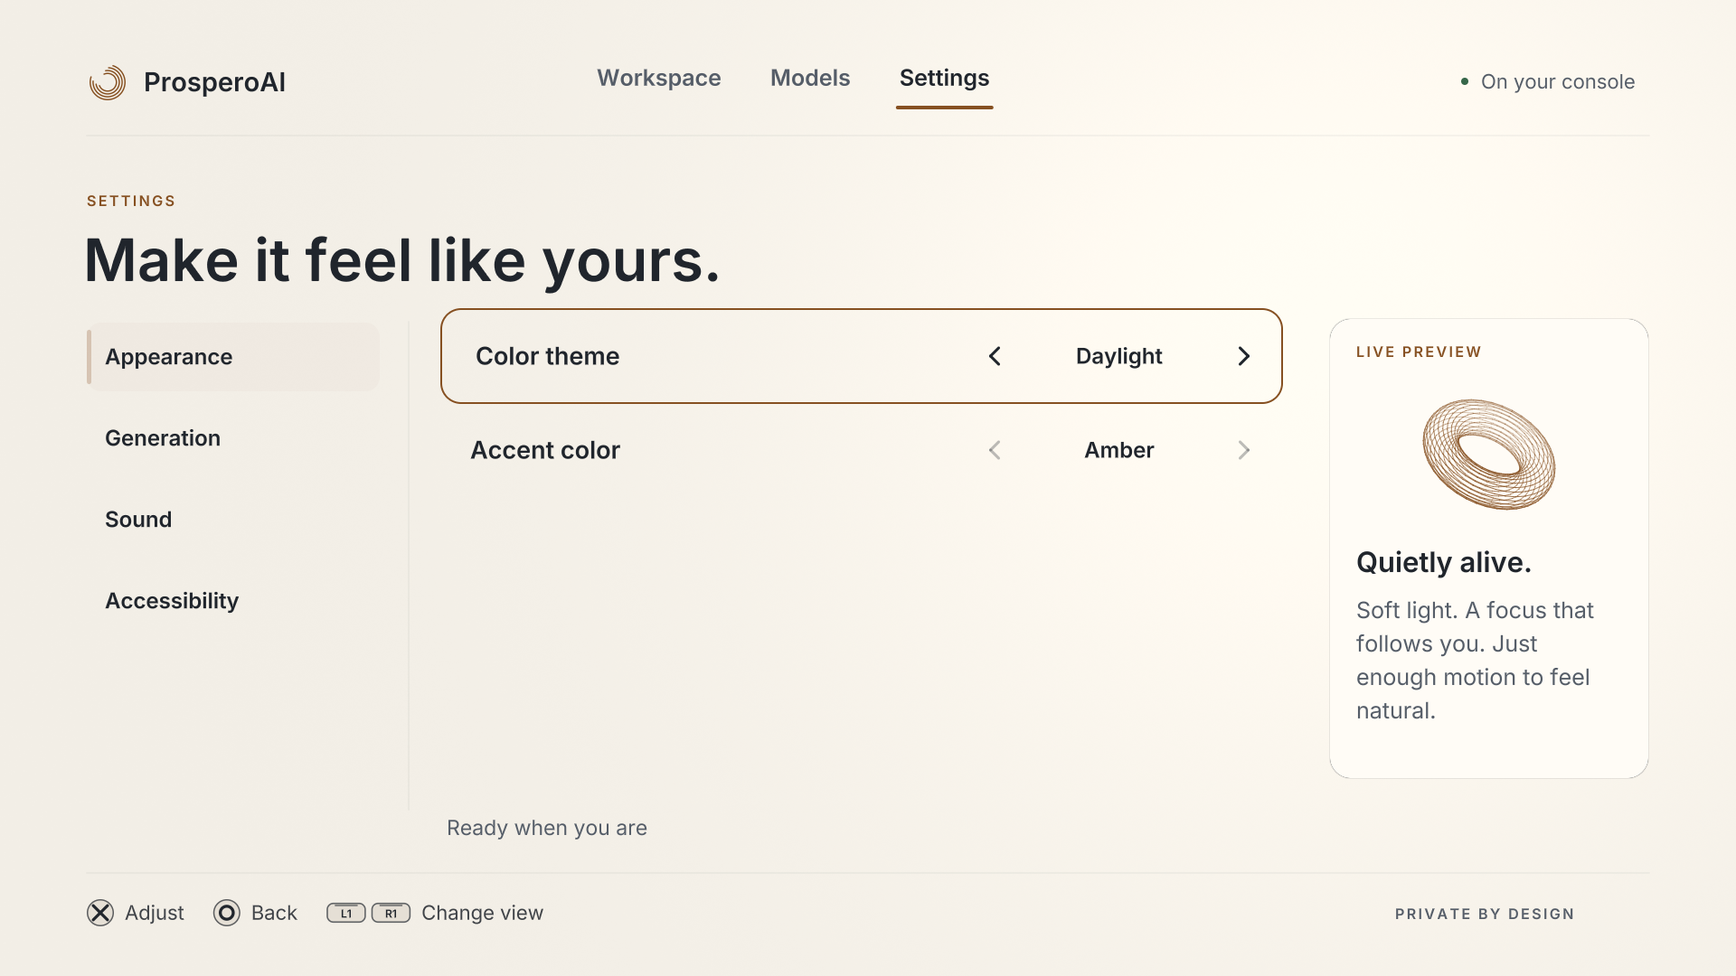
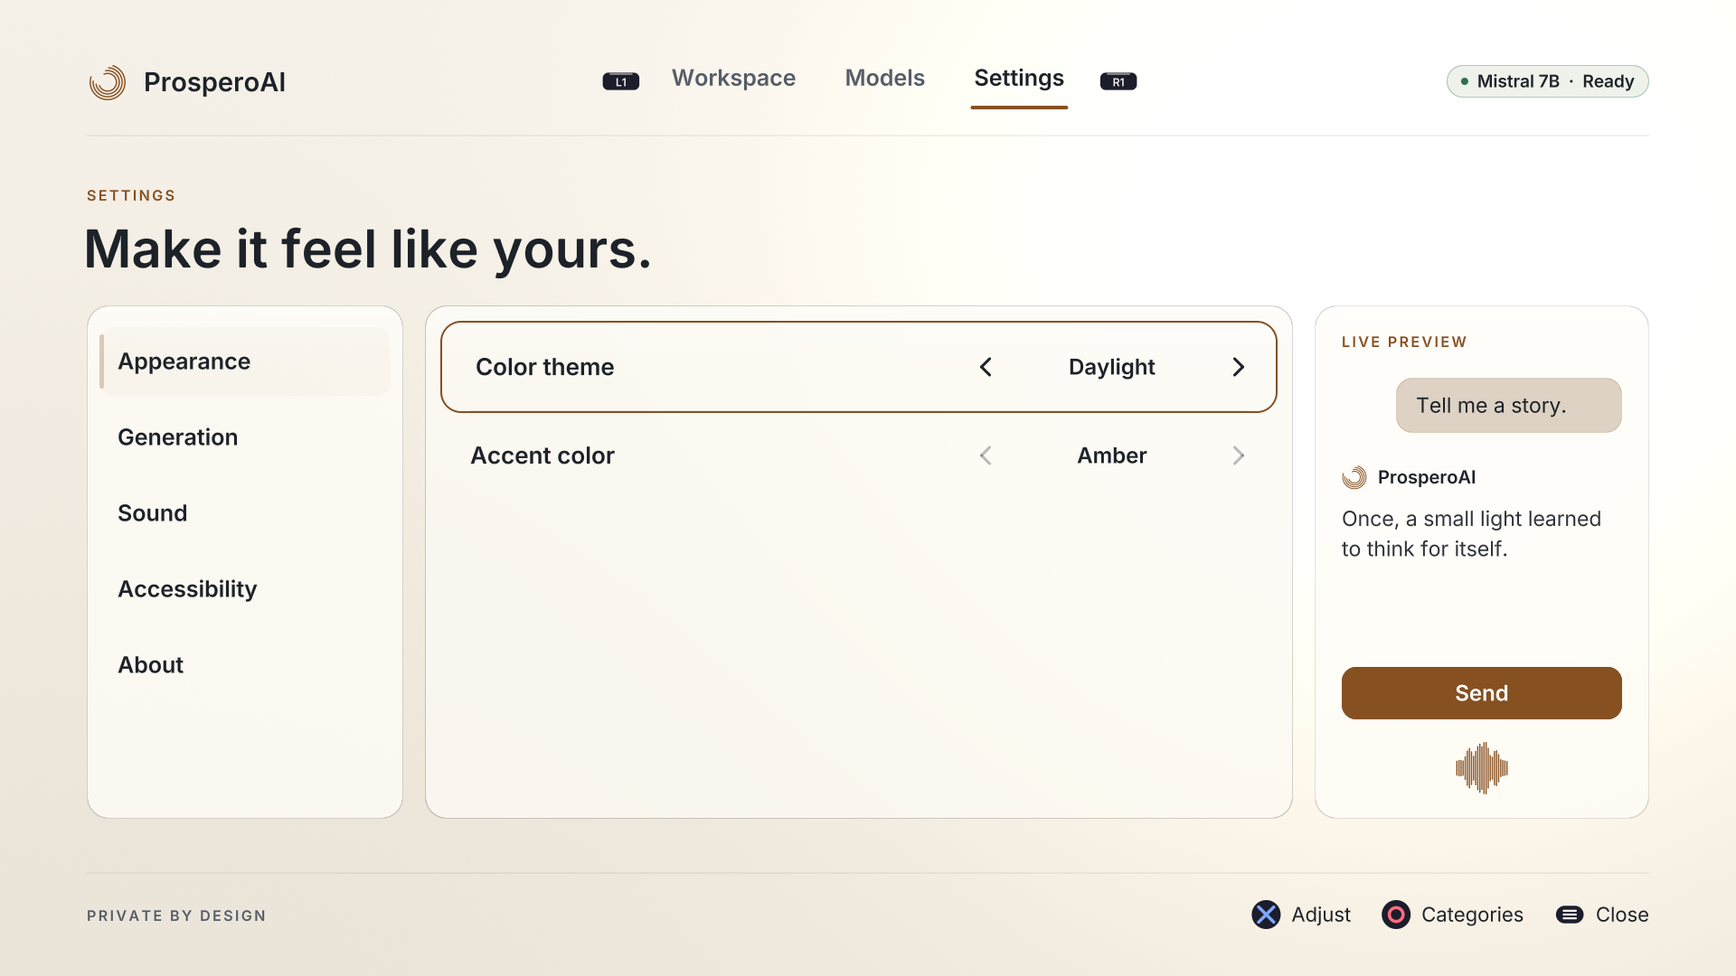
Describe the reworked interface and replace its pictures

diff --git a/docs/NATIVE_UI.md b/docs/NATIVE_UI.md
@@ -1,137 +1,154 @@
 # Native UI
 
-ProsperoAI uses the `ps5-homebrew-ui` renderer and components at revision
-`4bd942579dd981b3df9c740438489ca6a614ddc0`. The approved Midnight / Amber design
-is implemented in `src/native_ui.cpp`. The console entry point is `src/main.cpp`.
-The old RmlUi document renderer and bitmap-font engine are removed from the build.
-SDL remains for the existing media decoder, input clock, and system-keyboard helpers.
+ProsperoAI's interface is drawn with OpenGL through
+[ps5-homebrew-ui](https://github.com/blackbearreloaded/ps5-homebrew-ui), fetched at a
+pinned commit when the app is built ([ui-kit/README.md](../ui-kit/README.md)). The old
+RmlUi document renderer, its bitmap-font engine and FreeType are gone from the
+repository. SDL remains for the media decoder, the input clock and the system-keyboard
+helpers.
 
-These are captures of the production frontend with deterministic host fixtures,
-not console captures or model-inference results:
+These pictures are the production frontend drawn on a PC with stand-in models and
+storage. They are not console captures and show no real model output.
 
+![Opening page](images/native-welcome.png)
 ![Model library](images/native-models.png)
 ![Conversation workspace](images/native-workspace.png)
 ![Daylight settings](images/native-daylight.png)
 
-## Screens and input
+## Pages and controls
 
-- **Workspace:** saved conversations, streamed text, image previews, and saved audio.
-  Cross writes a message or sends the current USB-keyboard draft. The system keyboard's
-  Send action submits its text; Cancel returns to the app. Square starts a conversation.
-  Left focuses the session rail; Right or Circle returns to the composer. Up/Down and
-  the existing scroll inputs move through the response. Triangle retries a failed job
-  or plays the latest saved audio. A focused session can be deleted with Triangle,
-  after a confirmation dialog.
-- **Models:** a scrolling, virtualized model grid. Square opens search; a USB keyboard
-  can also type a query directly. Triangle cycles capability filters. Cross confirms a
-  model change. The selected model and installed model IDs come from the runtime.
-- **Settings:** appearance, text-generation defaults, interface volume, reduced motion,
-  high contrast, and larger reading text. Circle focuses the categories; Up/Down changes
-  category, and Cross/Right enters its controls. Changes apply immediately and save in
-  the background.
-- L1/R1 change screens. Options opens the close dialog when background work has finished
-  and the conversation has been saved.
+L1 and R1 change page. Options asks to close the app once nothing is running and the
+conversation is saved. The row at the bottom right always names what the buttons do on
+the page, and a dialog shows its own.
 
-The frontend uses the framework's spring focus, scrolling, card lift, staggered arrivals,
-tab indicator, native dialog transitions, blur, and sound cues. Screen entrances fade
-and rise over 420 ms. Procedural artwork uses the native draw list. Reduced motion
-disables ambient movement and snaps component motion according to the kit's policy.
-Both Midnight and Daylight apply to the entire interface, with Amber, Mist, and Sage accents.
+| Page | What it does |
+| --- | --- |
+| **Workspace** | Opens on a welcome page that says what is installed. Cross starts a conversation: with an empty prompt it opens the system keyboard (whose Done sends), with a typed one it sends. Square starts a new conversation. Left moves to the conversation list, where Cross opens one and Triangle deletes it after a confirmation. Triangle retries a failed answer or plays the latest saved audio. The right stick or Up and Down scroll. |
+| **Models** | The model under the focus leads the page; the grid below scrolls over any number of models. Square searches (a USB keyboard types straight into the search), Triangle steps through the kinds, Cross chooses a model after a confirmation. |
+| **Settings** | Appearance (Midnight or Daylight, three accents), Generation, Sound, Accessibility (reduced motion, high contrast, reading size) and About (version and credits). Circle returns to the categories. Changes apply at once and are saved in the background. |
+
+## What the player sees and hears
+
+- **An opening.** The console's splash stays up until the first frame; then the mark draws
+  itself in while the model catalogue is read, and the page arrives underneath.
+- **A backdrop that follows the app.** A slow cloud shader behind every page takes the
+  accent colour and the colour of the model in focus (conversation, image, sound and voice
+  each have one). Panels are tinted glass over it; dialogs blur what is behind them.
+- **State that is always visible.** A chip in the header names the active model and what it
+  is doing (Ready, Preparing, Creating). The model being prepared shows it on its card.
+- **Answers that arrive.** A new message fades in; while the model thinks its row shows
+  three dots, then the text with a caret; the line above the prompt counts the seconds.
+  When a text answer is done the same line shows tokens, tokens per second and context
+  size, as the first interface did; for media it shows the time taken.
+- **Notices.** Things that finish out of sight (a model that became ready, an answer that
+  completed while another page was open, a failure, a conversation deleted) arrive as a
+  notice in the top right corner and leave by themselves.
+- **Sound.** Every move, confirmation, refusal, page change, switch and dialog has a cue
+  from the kit's "glass" set, placed in the stereo field by where it happened. The app adds
+  a chime when it opens, one when a text answer is ready, a longer one for an image or a
+  sound, and a typing tick for the USB keyboard. The Sound setting scales all of them.
+- **Reduced motion** stops the backdrop, the idle movement and the entrances; the host
+  check below proves a page at rest then never changes. **High contrast** closes the
+  panels, removes the backdrop's clouds and strengthens lines and secondary text.
+
+Controller rumble is not used: the app's controller layer has no rumble call yet.
 
 ## State and model scalability
 
-`native_app.cpp` owns the application state. One worker serializes model discovery,
-model selection/preparation, inference, media decoding, session persistence, and settings
-writes. The renderer does not access the runtime or filesystem. Worker results are
-published with release/acquire synchronization and consumed on the rendering thread.
-Streaming updates are coalesced and copied without blocking the render thread.
+`native_app.cpp` owns the application state. One worker serializes model discovery, model
+selection and preparation, inference, media decoding, session persistence and settings
+writes. The renderer does not touch the runtime or the filesystem. Worker results are
+published with release/acquire synchronization and consumed on the rendering thread;
+streamed text is coalesced and copied without blocking either side. Each finished job can
+leave one notice (`App::take_notices`), which the interface turns into a sound or a toast.
 
-Model discovery reads every directory batch and stores descriptors in a vector; the
-former eight-model limit is removed. The grid draws visible cards, and search/filter
-operate on descriptors rather than hard-coded model names or positions. Saved preferences
-and conversations reference stable model IDs. The legacy numeric preference file is
-read and migrated to the version-2 key/value format on the next save.
+Model discovery reads every directory batch into a vector; there is no eight-model limit.
+The grid draws visible cards only, and search and filters work on descriptors, not on
+hard-coded names or positions. Saved preferences and conversations refer to stable model
+IDs. The legacy numeric preference file is read and migrated on the next save.
 
-Text, image, audio, and speech capabilities map to the existing runtime adapters. Adding
-a compatible installed model does not require a frontend change. Adding a new model
-architecture still requires a runtime adapter; a matching filename alone does not make
-an unsupported architecture usable. One model job runs at a time. No unmeasured RAM or
-VRAM estimates are shown, and selecting a media model is not represented as fully loading
-its weights before the runtime does so.
+Text, image, audio and speech map to the existing runtime adapters. A compatible installed
+model needs no frontend change; a new architecture still needs a runtime adapter. One
+model job runs at a time. No unmeasured memory estimates are shown.
 
-Conversations restore their recorded model. A missing model leaves a conversation readable.
-Generation failure preserves the user's message for retry. Failed saves retain the in-memory
-conversation and prevent model/session changes; retrying an unsaved response saves it
-without generating a duplicate. Conversation storage keeps its existing 64-message ceiling,
-reserving a slot for the assistant response. The session rail shows the storage layer's
-64 most recently updated sessions. Older sessions are retained on disk. Message storage
-now accommodates the runtime's complete 4095-byte response buffer.
+Conversations restore their recorded model; a missing model leaves the conversation
+readable. A failed generation keeps the message for a retry, and sending something else
+instead replaces that unanswered message (two user turns in a row would break some chat
+templates). A failed save keeps the conversation in memory and blocks model and session
+changes until a retry saves it, without generating again. A conversation holds 64
+messages and the list shows the 64 most recent ones; older ones stay on disk.
+
+## Text in any language
+
+The four faces of the interface (Inter Regular and SemiBold, Montserrat Medium, DejaVu
+Sans Mono) are baked at build time by the kit's own baker with its European alphabet, so
+accented Latin, Greek and Cyrillic are drawn in the same face as the sentence around them.
+Three more faces stand behind them as fallbacks (`src/font_set.cpp`) and are read from
+disk only when a text first needs them:
+
+| Face | Covers | Source |
+| --- | --- | --- |
+| `noto-sans-east-asian` | Chinese and Japanese: GB 2312, Big5, JIS X 0208, kana, full-width forms | Noto Sans SC, fetched and baked at build time |
+| `noto-sans-korean` | Hangul and compatibility jamo | Noto Sans KR, the same way |
+| `legacy-multilingual` | What the first interface's bitmap font has that the others do not: Arabic, Hebrew, Thai, Devanagari and other glyphs, drawn unshaped | `assets/fonts/legacy-multilingual` |
+
+The first two are large (26 MB and 16 MB), which is why they are loaded on demand; the
+frame that reads one is a long one (about 70 ms on a PC, not measured on a console).
+There is no shaping engine: Arabic and Indic text is drawn as isolated glyphs from left to
+right, exactly as before. Long text without spaces wraps between code points.
 
 ## Graphics and media integration
 
-OpenGL is initialized before inference. `agc_lifecycle.cpp` makes the process-wide AGC
+OpenGL starts before inference. `agc_lifecycle.cpp` makes the process-wide AGC
 initialization shared between the two clients. Link-only AGC import declarations combine
-the graphics SDK's exports with the inference wait-command declaration. These stubs are
-not included in the app package.
+the graphics SDK's exports with the inference wait-command declaration; these stubs are
+not packaged. The application allocator implements `realloc` and `malloc_usable_size` for
+its fallback allocations, so Mesa never passes a mapped allocation to the libc heap.
+`src/runtime_shims.c` carries the libc entry points Mesa needs and the delayed splash
+release. The title exits through the system service after releasing its resources.
 
-The existing application allocator now implements `realloc` and `malloc_usable_size` for
-its fallback allocations, so Mesa does not pass a mapped allocation to the libc heap.
-The framework's libc shims and delayed splash release are included. The title exits through
-the system service after UI/audio resources have been released.
+Generated images decode off the rendering thread. TGA headers, dimensions and payloads are
+checked; previews are downsampled to at most 1024 pixels on their longest side. Textures
+upload for visible images, at most one per frame, and are released when the conversation
+changes. Saved audio uses the existing player; interface cues use the kit's mixer.
 
-Generated images decode off the rendering thread. TGA headers, dimensions, and payloads
-are checked; previews are downsampled to at most 1024 pixels on their longest side. Texture
-uploads happen for visible images, at most one per update. Textures are released when the
-conversation changes. Saved audio uses the existing player, while interface cues use the
-framework mixer and their own volume setting.
-
-The bundled multilingual bitmap atlas is converted at build time to a coverage `.huifont`.
-The four display fonts share this fallback atlas, preserving 17,854 fallback glyphs.
-Measurement, wrapping, and rendering use the same resolved face and metrics. Long strings
-without spaces wrap at UTF-8 codepoint boundaries. This preserves the existing glyph
-coverage; it does not introduce bidirectional layout or complex-script shaping.
+A diagnostic log is off by default. A file named `dev/log.txt` in the install folder turns
+it on; it is written to `/download0/ProsperoAI/logs/app.log`.
 
 ## Build and verification
-
-The normal Linux/WSL build remains:
 
 ```sh
 BUILD_JOBS=6 make app
 ```
 
-This fetches and verifies the framework's pinned OpenGL SDK, converts the fallback font,
-builds the native frontend and existing inference adapters, and assembles the app folder.
-The package includes the new fonts and sound cues; obsolete RmlUi assets are not packaged.
+fetches and verifies the OpenGL SDK and the kit, bakes the fonts, builds the frontend and
+the inference adapters, and assembles the app folder with the fonts and sounds it needs.
 Model weights are not included.
 
-Host checks and production-frontend captures:
+Host checks and pictures of the production frontend:
 
 ```sh
 python3 -m unittest discover -s tests -p 'test_native_controller.py' -v
 python3 tools/host-ui-preview.py
 PROSPERO_STRESS=1 python3 tools/host-ui-preview.py build/ui-preview/stress
+PROSPERO_EMPTY=1 python3 tools/host-ui-preview.py build/ui-preview/empty
 python3 tools/host-ui-preview.py build/ui-preview/reel --reel
 ```
 
-The preview requires Clang, Mesa EGL/OpenGL, Python/Pillow, and FFmpeg for a reel. It compiles
-the production controller and frontend with deterministic runtime and storage fixtures.
-It does not run model inference, connect to a console, or deploy anything. Its images and
-reels are host captures, not evidence of console boot or console frame rate.
+The preview needs Clang, Mesa EGL/OpenGL, Python with Pillow, and FFmpeg for a reel. It
+compiles the production controller and frontend against stand-in runtime and storage, and
+walks every page, dialog and state. It runs no inference and touches no console.
 
-The checks cover 500 model descriptors, real discovery across multiple directory batches,
+The checks cover 500 model descriptors, discovery across several directory batches,
 serialized runtime ownership, switching, session restore, missing models, persistence,
-generation retry, save retry, multilingual layout, bounded image decoding, fallback
-allocator resizing, and concurrent AGC initialization.
-The host renderer also verifies that reduced-motion library frames remain identical
-after two seconds at rest. The 500-model catalog uses 22 draw calls normally and 49
-with the blurred dialog in the captured host run; these are not console frame-rate results.
+generation retry, save retry, the replaced unanswered message, notices, fallback faces
+and their metrics, wrapping at spaces and between code points, bounded image decoding,
+allocator resizing and concurrent AGC initialization. The preview reports no OpenGL error
+on any page and that a reduced-motion page at rest is identical two seconds later.
 
-## Upstream changes
+## Not verified on a console
 
-The vendored component/renderer subset includes upstream license notices. Local changes
-add a fallback face to `gfx::Font`, coverage-atlas rendering, per-glyph texture selection,
-and codepoint wrapping for long unbroken text. These are localized under `gfx/`; application
-behavior and styling remain outside the vendor directory.
-
-Hardware boot, controller feel, native IME behavior, mixed graphics/inference scheduling,
-and sustained frame rate still need a separately authorized console validation run.
+Nothing in this interface has run on hardware yet: start-up, controller feel, the system
+keyboard over OpenGL, graphics and inference sharing the GPU and memory, the time the
+fallback faces take to load, sound by ear and sustained frame rate all still need a
+console run.

diff --git a/README.md b/README.md
@@ -20,9 +20,10 @@
 
 ![ProsperoAI native model library](docs/images/native-models.png)
 
-The native interface uses [ps5-homebrew-ui](https://github.com/blackbearreloaded/ps5-homebrew-ui).
-This screenshot uses the production frontend with host fixtures. See the
-[UI guide](docs/NATIVE_UI.md) for controls, implementation details, and validation limits.
+The interface is built with [ps5-homebrew-ui](https://github.com/blackbearreloaded/ps5-homebrew-ui),
+fetched at a pinned commit when the app is built. This picture is the production frontend
+drawn on a PC with stand-in models. See the [UI guide](docs/NATIVE_UI.md) for the pages,
+how it is built, and what has not run on a console yet.
 
 > [!WARNING]
 > ProsperoAI is an experimental project for validating generative-AI workloads
@@ -34,7 +35,9 @@ This screenshot uses the production frontend with host fixtures. See the
 - Uses native PS5 AGC GPU compute for the model paths; this is not a ROCm port.
 - Searches and filters installed text, image, audio, and speech models in a scrolling library.
 - Uses stable model IDs for selection and saved conversations, with no eight-model catalog limit.
-- Offers Midnight and Daylight themes, animated focus and transitions, reduced motion, and larger text.
+- Offers Midnight and Daylight themes, a living backdrop, interface sounds, notices, reduced motion,
+  high contrast, and larger text.
+- Draws answers in Latin, Greek, Cyrillic, Chinese, Japanese and Korean with scalable faces.
 - Stores independent text, image, audio, and speech sessions under `/download0`.
 - Supports DualSense navigation, right-stick conversation scrolling, the PS5 on-screen keyboard, and a physical USB keyboard.
 - Ships without model weights. Users choose and install curated model folders separately.
@@ -153,15 +156,17 @@ title is mounted.
 
 | Input | Action |
 | --- | --- |
-| D-pad / left stick | Navigate models, sessions, or settings; Left focuses the session rail |
-| Cross | Open a session, activate a control, or write a prompt |
-| Circle | Close a dialog or return focus to the composer/settings categories |
+| D-pad / left stick | Move through models, conversations, or settings; Left reaches the conversation list |
+| Cross | Start or open a conversation, write or send a prompt, choose a model, change a setting |
+| Circle | Close a dialog, leave the conversation list, or return to the settings categories |
 | L1 / R1 | Switch between Workspace, Models, and Settings |
-| Square | Start a new session in Workspace; search in Models |
-| Triangle | Filter models, retry a failed job, delete a focused session, or play saved audio |
-| Options | Open the close-app dialog after background work has finished and the conversation is saved |
+| Square | Start a new conversation in Workspace; search in Models |
+| Triangle | Step through the model kinds, retry a failed answer, delete the focused conversation, or play saved audio |
+| Options | Ask to close the app, once nothing is running and the conversation is saved |
 | Right stick | Scroll through the current conversation |
-| Physical USB keyboard | Type in the prompt field; Enter sends |
+| Physical USB keyboard | Type in the prompt field or the model search; Enter sends |
+
+The row at the bottom right of every page names what the buttons do there.
 
 Each conversation is an independent session. Text and metadata are saved under
 `/download0/ProsperoAI/sessions/`; generated image and audio files live inside
@@ -188,9 +193,10 @@ dist/PPSA99004/           complete model-free app folder
 dist/PPSA99004.zip        archived model-free app folder
 ```
 
-The build downloads and verifies the public PS5 Payload SDK, ps5-opengl SDK, and zlib inside the
-ignored `.deps/` directory. It rebuilds the clean-room `libc.prx`
-runtime, compiles the native app through parallel incremental Ninja builds,
+The build downloads and verifies the public PS5 Payload SDK, the ps5-opengl SDK, the
+ps5-homebrew-ui interface kit, the Noto Sans faces for Chinese, Japanese and Korean, and zlib
+inside the ignored `.deps/` directory. It bakes the interface fonts, rebuilds the clean-room
+`libc.prx` runtime, compiles the native app through parallel incremental Ninja builds,
 caches compiler results with ccache, signs the executable, validates assets,
 and assembles the release. Set `USE_CCACHE=0` to disable the cache or
 `BUILD_JOBS=<count>` to limit parallel compilation. Model weights are never
@@ -218,7 +224,8 @@ see [Pull-request builds](docs/PULL_REQUEST_BUILDS.md).
 src/                 ProsperoAI UI, sessions, model routing, and GPU runtimes
 src/backends/        Mistral and Qwen architecture-specific AGC programs
 include/             Application interfaces
-assets/              Native fonts, interface sounds, and retained legacy source assets
+assets/              The last-resort bitmap font (other fonts and sounds come from the kit)
+ui-kit/              Which kit sources are compiled, and the patch laid over the fetched kit
 host/                Deterministic native-frontend capture harness
 sce_sys/             PS5 title metadata, artwork, icon, and selection music
 models/README.txt    Model-free release placeholder and install guidance

diff --git a/CHANGELOG.md b/CHANGELOG.md
@@ -2,6 +2,22 @@
 
 ## Unreleased
 
+- Replaced the RmlUi interface with a native OpenGL one built on ps5-homebrew-ui: Workspace,
+  Models and Settings pages, a model library without the eight-model limit, search and
+  filters, Midnight and Daylight themes with three accents, an opening sequence, a backdrop
+  that follows the model in focus, notices, interface sounds, reduced motion, high contrast
+  and a larger reading size.
+- The interface kit, its fonts and its sounds are fetched at a pinned commit when the app is
+  built; nothing of the kit is kept in this repository. RmlUi, FreeType and the old
+  interface's assets are removed.
+- Chinese, Japanese and Korean are drawn with scalable Noto Sans faces, loaded when a text
+  first needs them; accented Latin, Greek and Cyrillic are part of the interface faces.
+- Sending a new message after a failed answer replaces the unanswered one instead of storing
+  two user turns in a row.
+- The token count, speed and context size of the last answer are shown again, and Settings
+  has an About page with the version.
+- Moved to ps5-opengl SDK 1.0.1.
+- The diagnostic log is off unless the install folder holds `dev/log.txt`.
 - Adopted the foundation's parallel incremental Ninja build and ccache-backed
   local/CI compilation workflow.
 - Fixed RELRO load-segment alignment for executables whose relocated read-only
